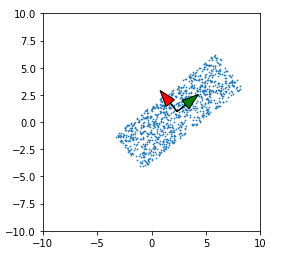
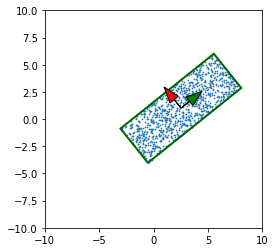
covarianceMatrix

Changed region(s): [[0.0291, 0.0278, 0.9891, 0.9722]]

diff --git a/miscellaneous/optimalTransformation_covarianceMatrix.py b/miscellaneous/optimalTransformation_covarianceMatrix.py
@@ -5,13 +5,14 @@
 
 import numpy as np
 import matplotlib.pyplot as plt
+import matplotlib.patches as patches
 
 '''
  Global Constants
 '''
 NUM_POINTS = 1000
 ROTATION = 39.0
-SCALE = [12.0, 4.0]
+SCALE = [11.0, 4.0]
 TRANSLATE = [2.5, 1]
 
 '''
@@ -25,16 +26,14 @@ def transformPoints(pointData, angle, scale, translate):
     scaleRotationMat = np.matrix([[cosAngle * scale[0],  -sinAngle * scale[1]],
                                   [sinAngle * scale[0],  cosAngle * scale[1]]])
 
-    # Explicit
+    # Non vectorized code
     #for i in range(NUM_POINTS):
     #    pointData[i] = np.matmul(scaleRotationMat, pointData[i])
     #    pointData[i] += translate
 
-    # Vectorized
-    multiply = np.matmul(scaleRotationMat, pointData.T)
-    np.copyto(pointData, multiply.T)
+    transformedPoint = np.matmul(scaleRotationMat, pointData.T)
+    np.copyto(pointData, transformedPoint.T)
     pointData += translate
-
 
 '''
  Utility functions
@@ -43,12 +42,11 @@ def computeCentroid(pointData):
     return np.sum(pointData, axis=0) / np.size(pointData,0)
 
 def covariance(pointArray, index0, index1):
-    # Explicit
+    # Non vectorized code
     #cov = 0
     #for p in pointArray:
     #    cov += p[index0] * p[index1]
 
-    # Vectorized
     cov = np.sum(pointArray[:,index0] * pointArray[:,index1])
 
     return cov / np.size(pointArray,0)
@@ -69,36 +67,43 @@ def computeOrthogonalFrame(pointData, centroid):
     w, v = np.linalg.eig(covarianceMatrix)
     return v
 
-'''
- Draw point data and frame
-'''
-def drawPointsAndFrame(pointData):
-    # create figure
+def draw(pointData, centroid, rotationMatrix):
+    '''
+     Draw point, frames, box
+    '''
     fig = plt.figure()
     ax = fig.add_subplot(111)
     ax.set_aspect('equal')
     ax.set_xlim(-10,10)
     ax.set_ylim(-10,10)
 
-    # compute eigenvectors
-    centroid = computeCentroid(pointData)
-    frames = computeOrthogonalFrame(pointData, centroid)
-
-    vec0 = np.reshape(frames[0], (2, 1))
-    vec1 = np.reshape(frames[1], (2, 1))
-    vec0x = vec0[0].item()
-    vec0y = vec0[1].item()
-    vec1x = vec1[0].item()
-    vec1y = vec1[1].item()
+    transformedPointData = np.copy(pointData)
+    transformedPointData -= centroid
+    inverseRotationMatrix = rotationMatrix.T
+    transformedPointData = np.asarray(np.matmul(inverseRotationMatrix, transformedPointData.T).T)
+    boxMin = np.min(transformedPointData, axis=0)
+    boxMax = np.max(transformedPointData, axis=0)
 
     # draw the local frame
     # in ax.arrow(...)  vec.y and vec.x are reversed !
+    vec0x = frames.item(0,0)
+    vec0y = frames.item(0,1)
+    vec1x = frames.item(1,0)
+    vec1y = frames.item(1,1)
     ax.arrow(centroid[0], centroid[1], vec0y, vec0x, head_width=1.0, facecolor='red', edgecolor='black')
     ax.arrow(centroid[0], centroid[1], vec1y, vec1x, head_width=1.0, facecolor='green', edgecolor='black')
 
     # draw points
     x, y = zip(*pointData)
     ax.scatter(x, y,s=0.5)
+
+    # draw box
+    vertex = np.asarray([(boxMin[0], boxMin[1]), (boxMin[0], boxMax[1]),
+                         (boxMax[0], boxMax[1]), (boxMax[0], boxMin[1])])
+    vertex = np.asarray(np.matmul(rotationMatrix, vertex.T).T)
+    vertex += centroid
+    polygon = patches.Polygon(vertex, closed=True,ec='darkgreen',lw=2,fill=False)
+    ax.add_patch(polygon)
 
     # show result
     plt.show()
@@ -109,4 +114,13 @@ def drawPointsAndFrame(pointData):
 pointData = np.array(np.random.rand(NUM_POINTS, 2) - 0.5)  # positions [-0.5, -0.5] [0.5, 0.5]
 transformPoints(pointData, ROTATION, SCALE, TRANSLATE)
 
-drawPointsAndFrame(pointData)
+# compute best transform (rotation, centroid)
+centroid = computeCentroid(pointData)
+frames = computeOrthogonalFrame(pointData, centroid)
+det = np.linalg.det(frames)
+if det < 0.0:
+    frames *= -1.0
+rotationMatrix = frames
+
+# draw
+draw(pointData, centroid, rotationMatrix)
